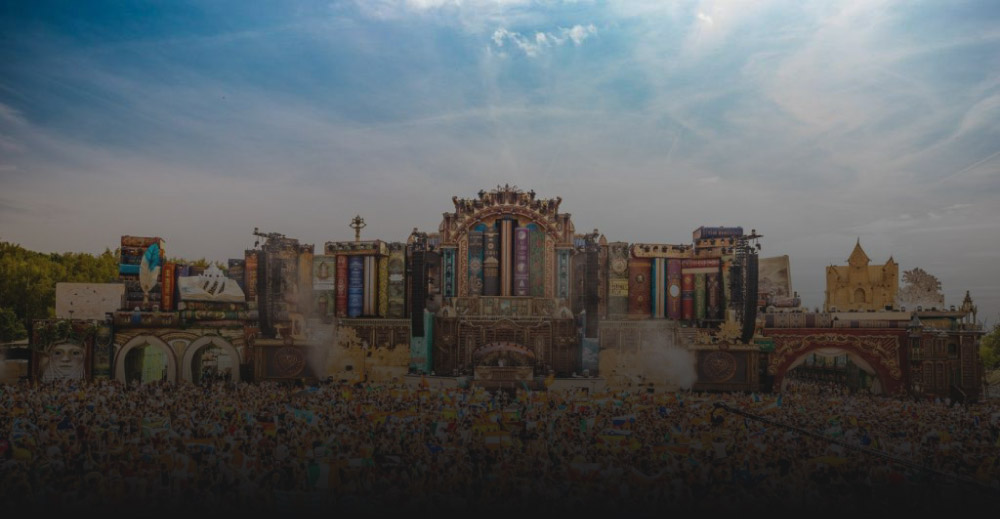
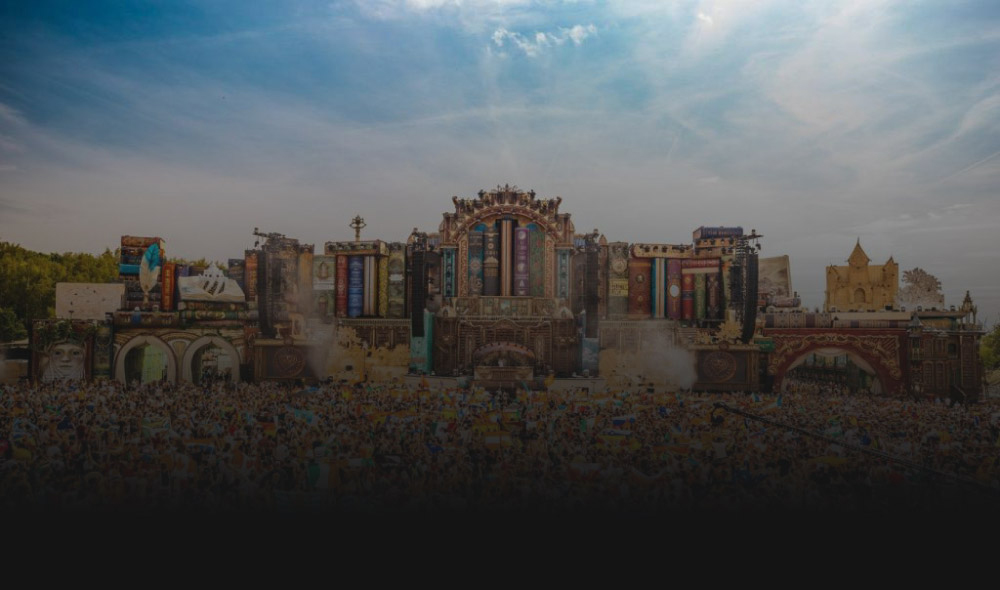
finishing sectionline div

diff --git a/styles/belgica.css b/styles/belgica.css
@@ -228,8 +228,18 @@ p.around-2 {
 .sectionlinea {
   background-color: #141414;
   border: 1px solid red;
-  background-image: url("/images/");
+
+  background-image: url("../images/sectionlinea-bg.jpg");
+
+  background-position: top; 
+  background-repeat: no-repeat; /* Do not repeat the image */
+
 }
+
+
+
+
+
 
 .sectionlinea  h2{
   font-family: titlingbold;
